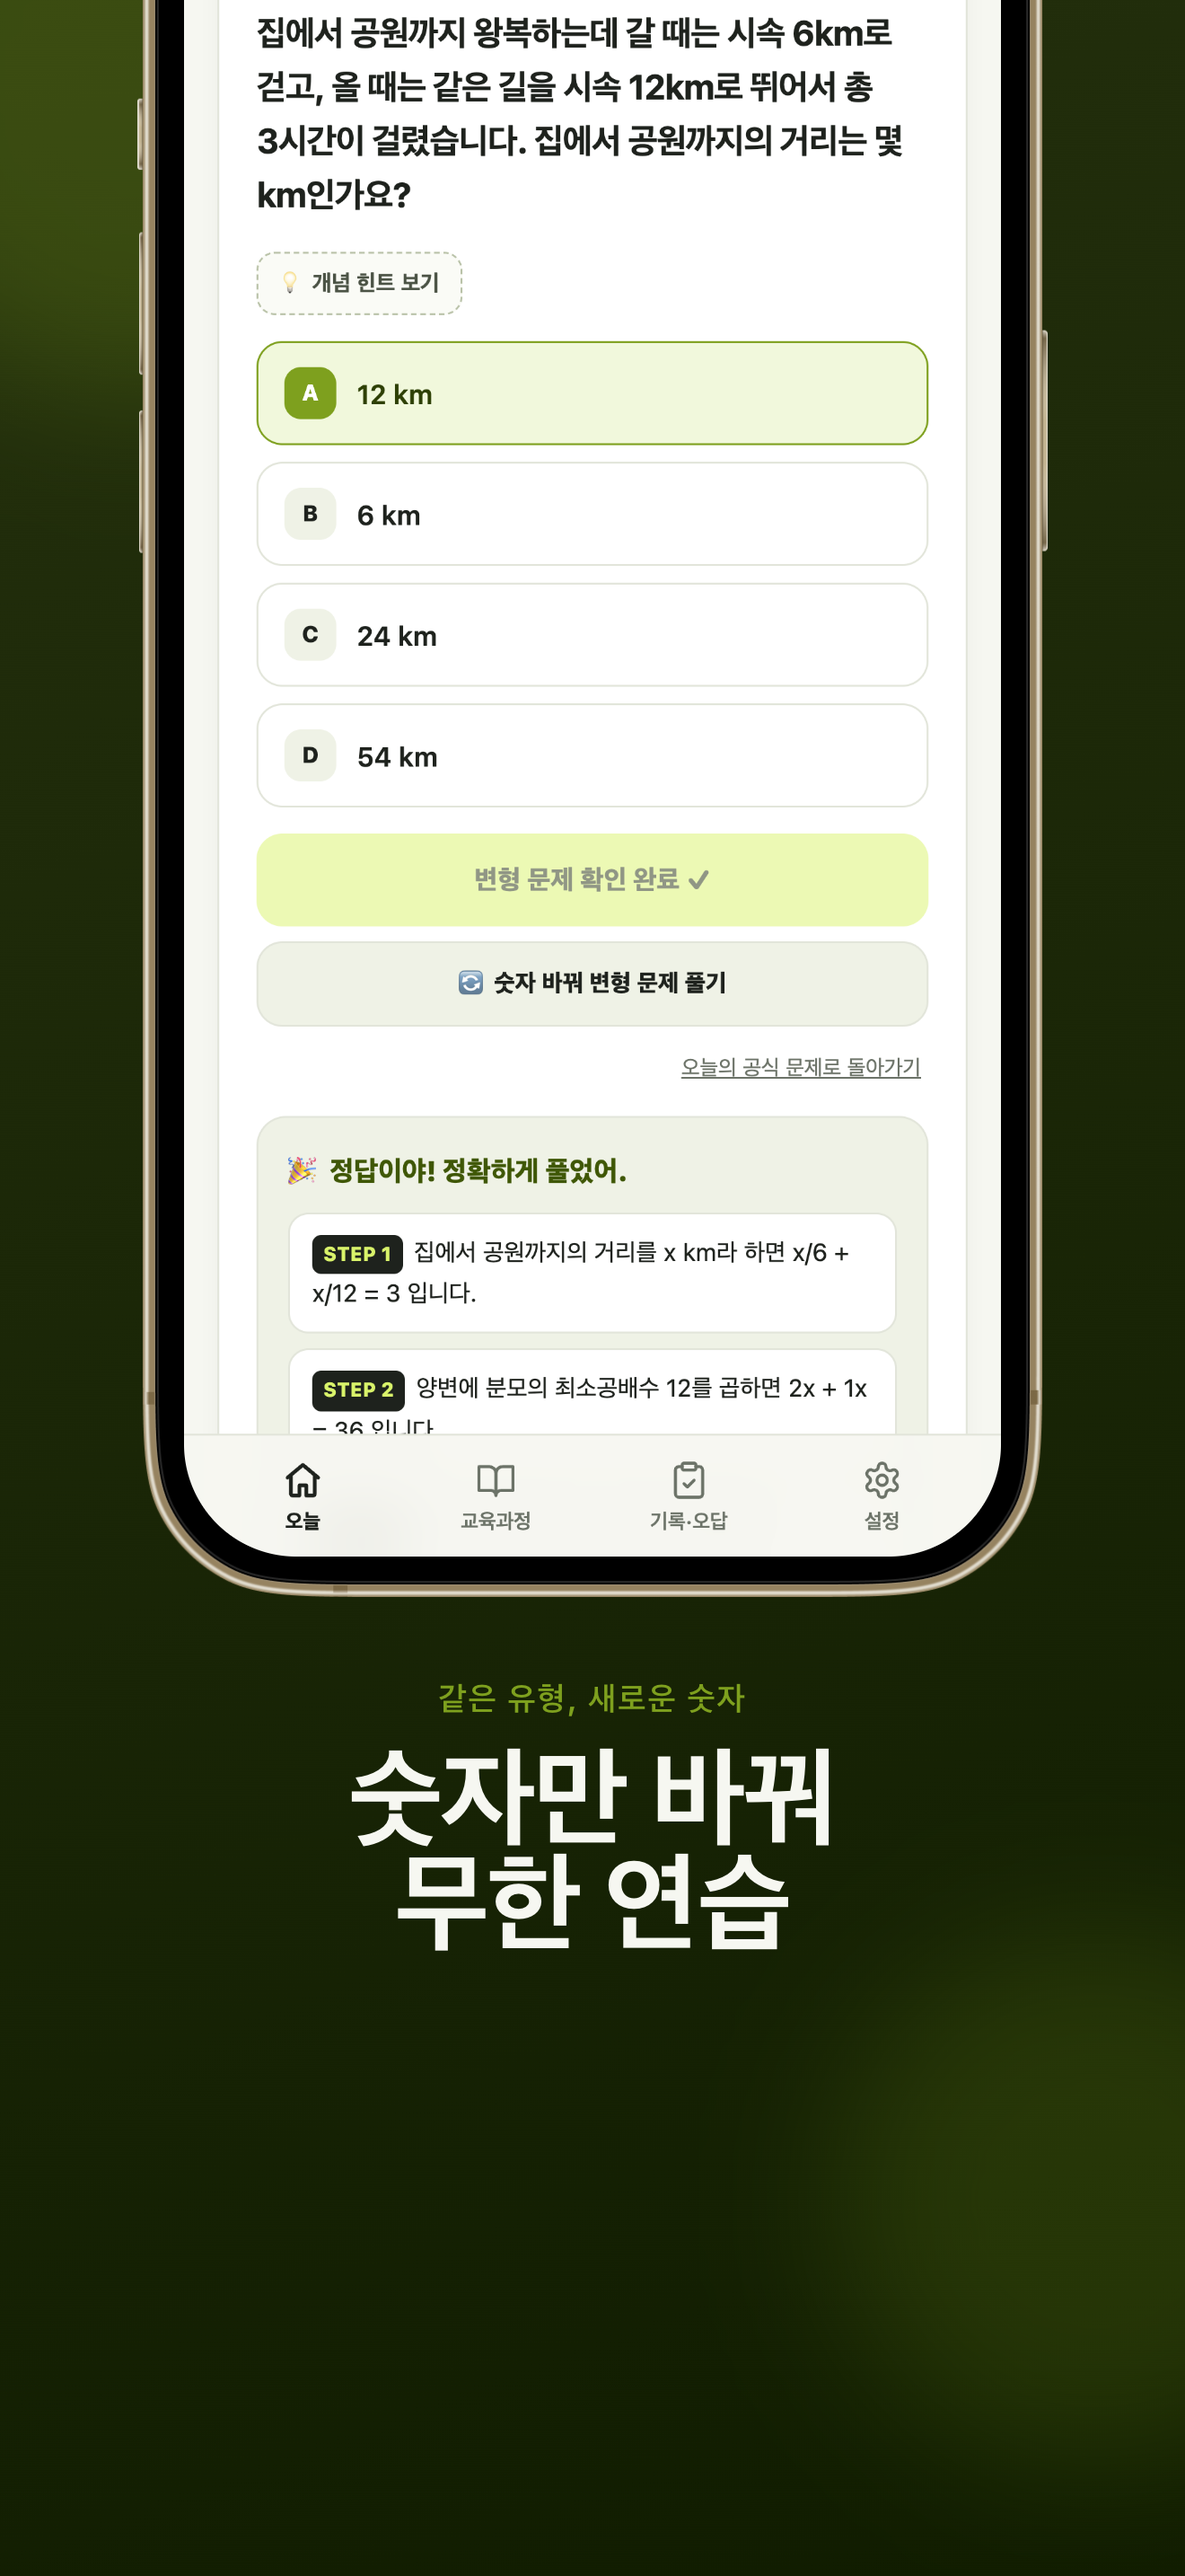
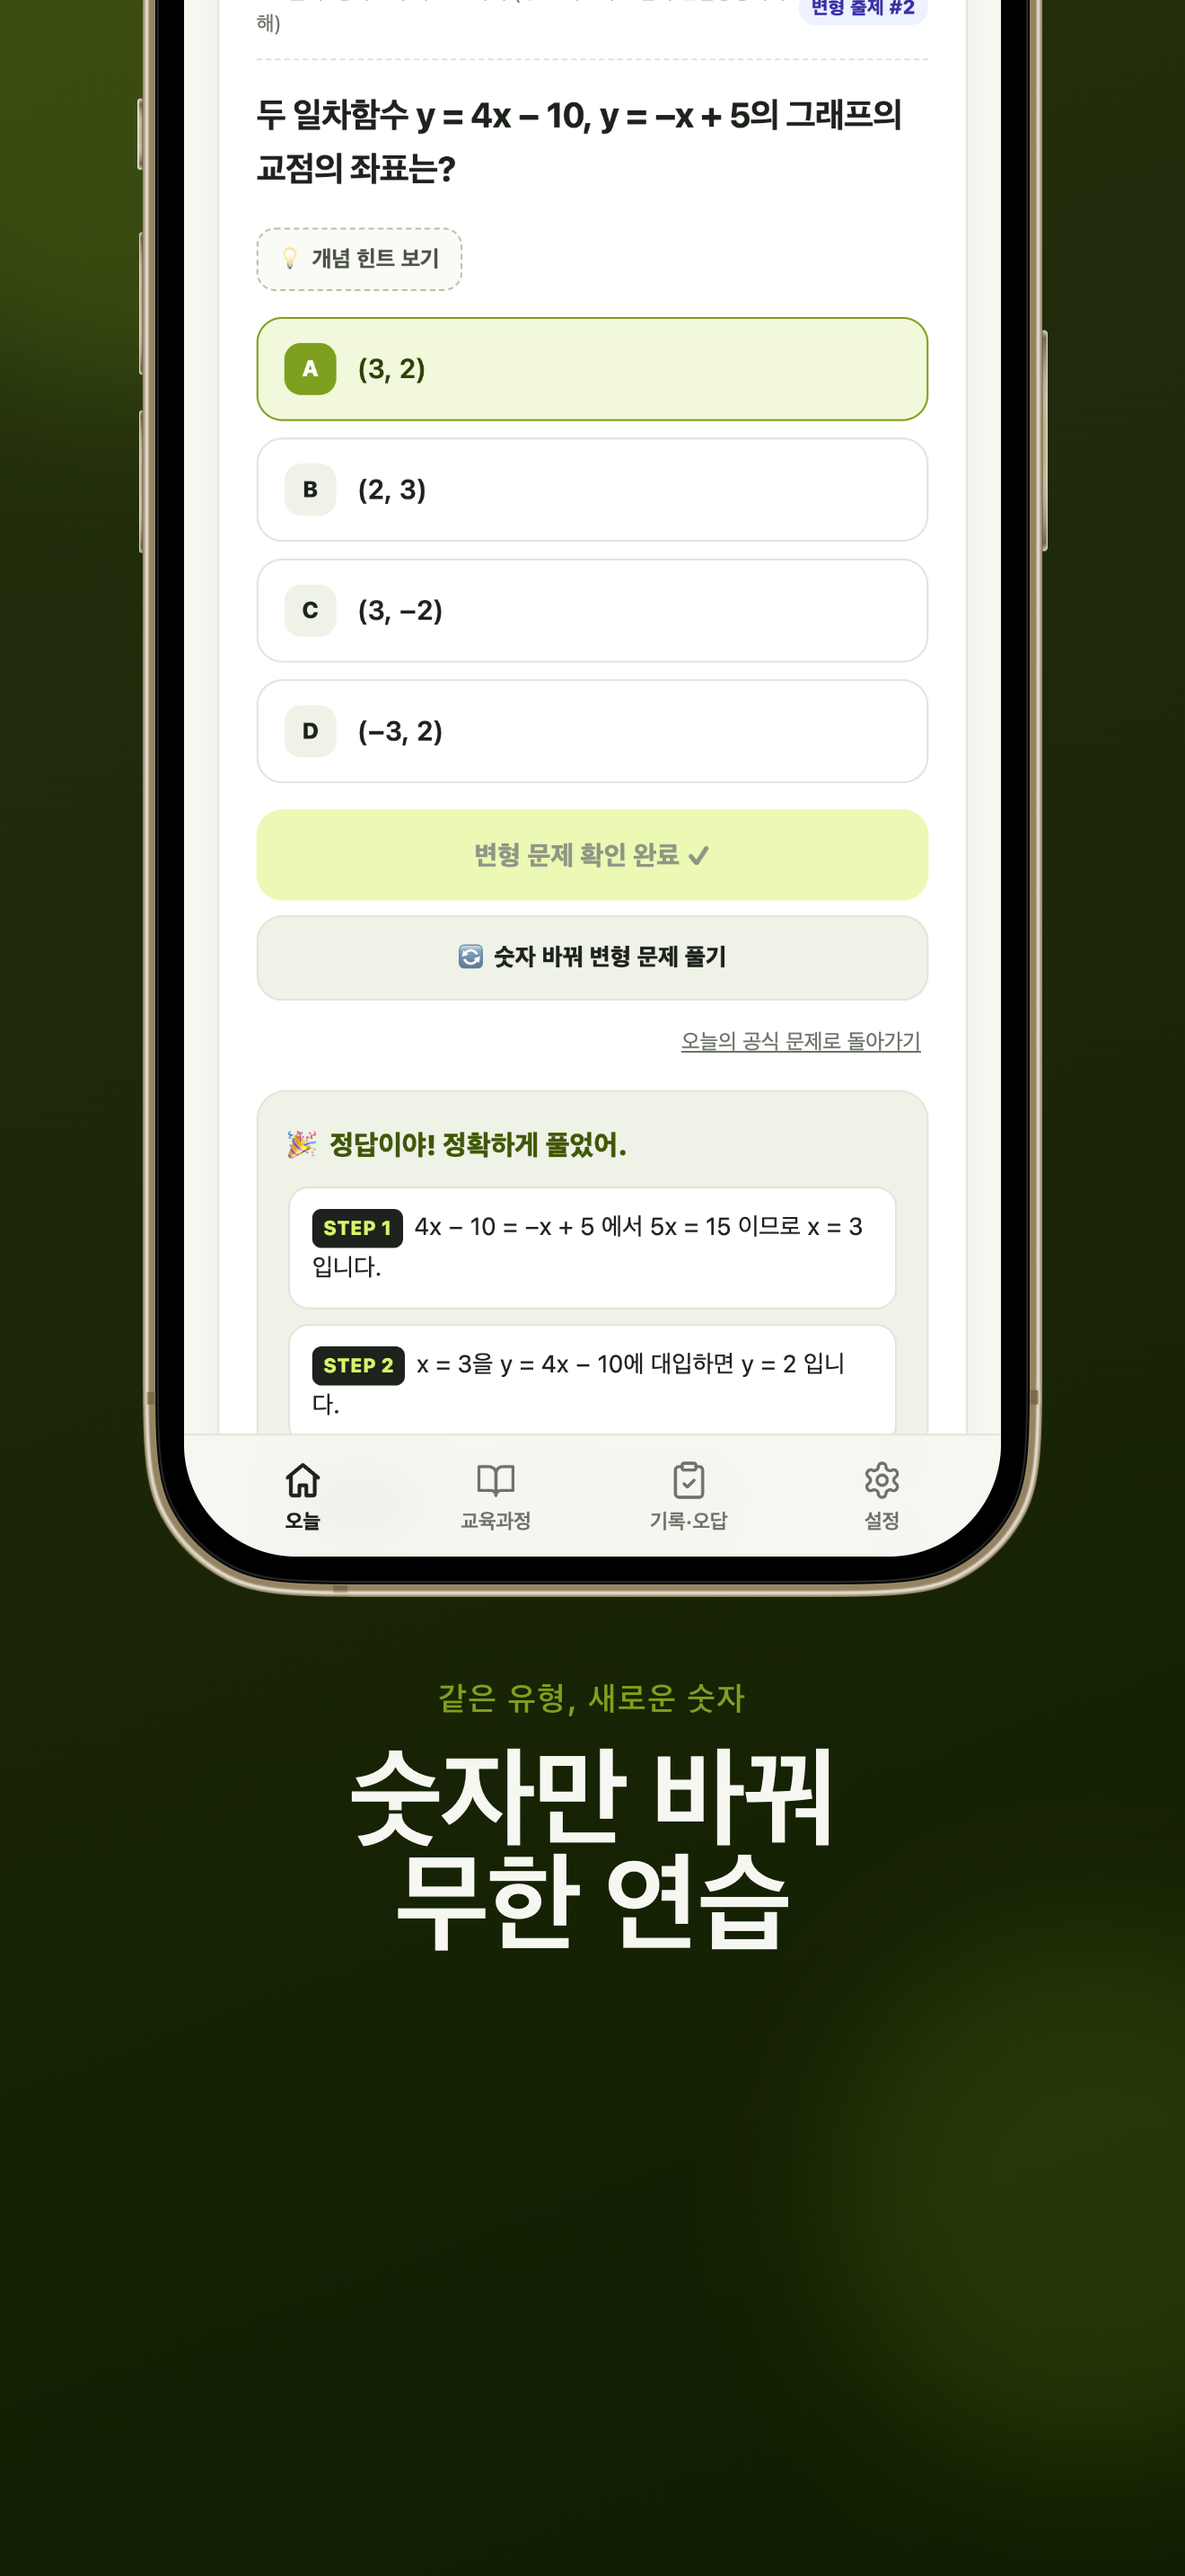
1.0.2 스토어 스크린샷 재생성(난이도 버튼 화면, 140개 유형 문구)

Changed region(s): [[0.2174, 0.0, 0.8076, 0.5586]]

diff --git a/scripts/capture-raw.js b/scripts/capture-raw.js
@@ -111,7 +111,7 @@ const SEED = () => {
   await page.click('#check-btn');
   await page.waitForSelector('#feedback.show');
   await page.waitForTimeout(2600); // 토스트 사라질 때까지
-  await scrollTo('#question-text', 120);
+  await scrollTo('#question-card', 12);
   await shot('iphone-02-variation.png');
 
   // 3. 그림 문제 — 교육과정 탭에서 MID-06(피타고라스) 불러오기
